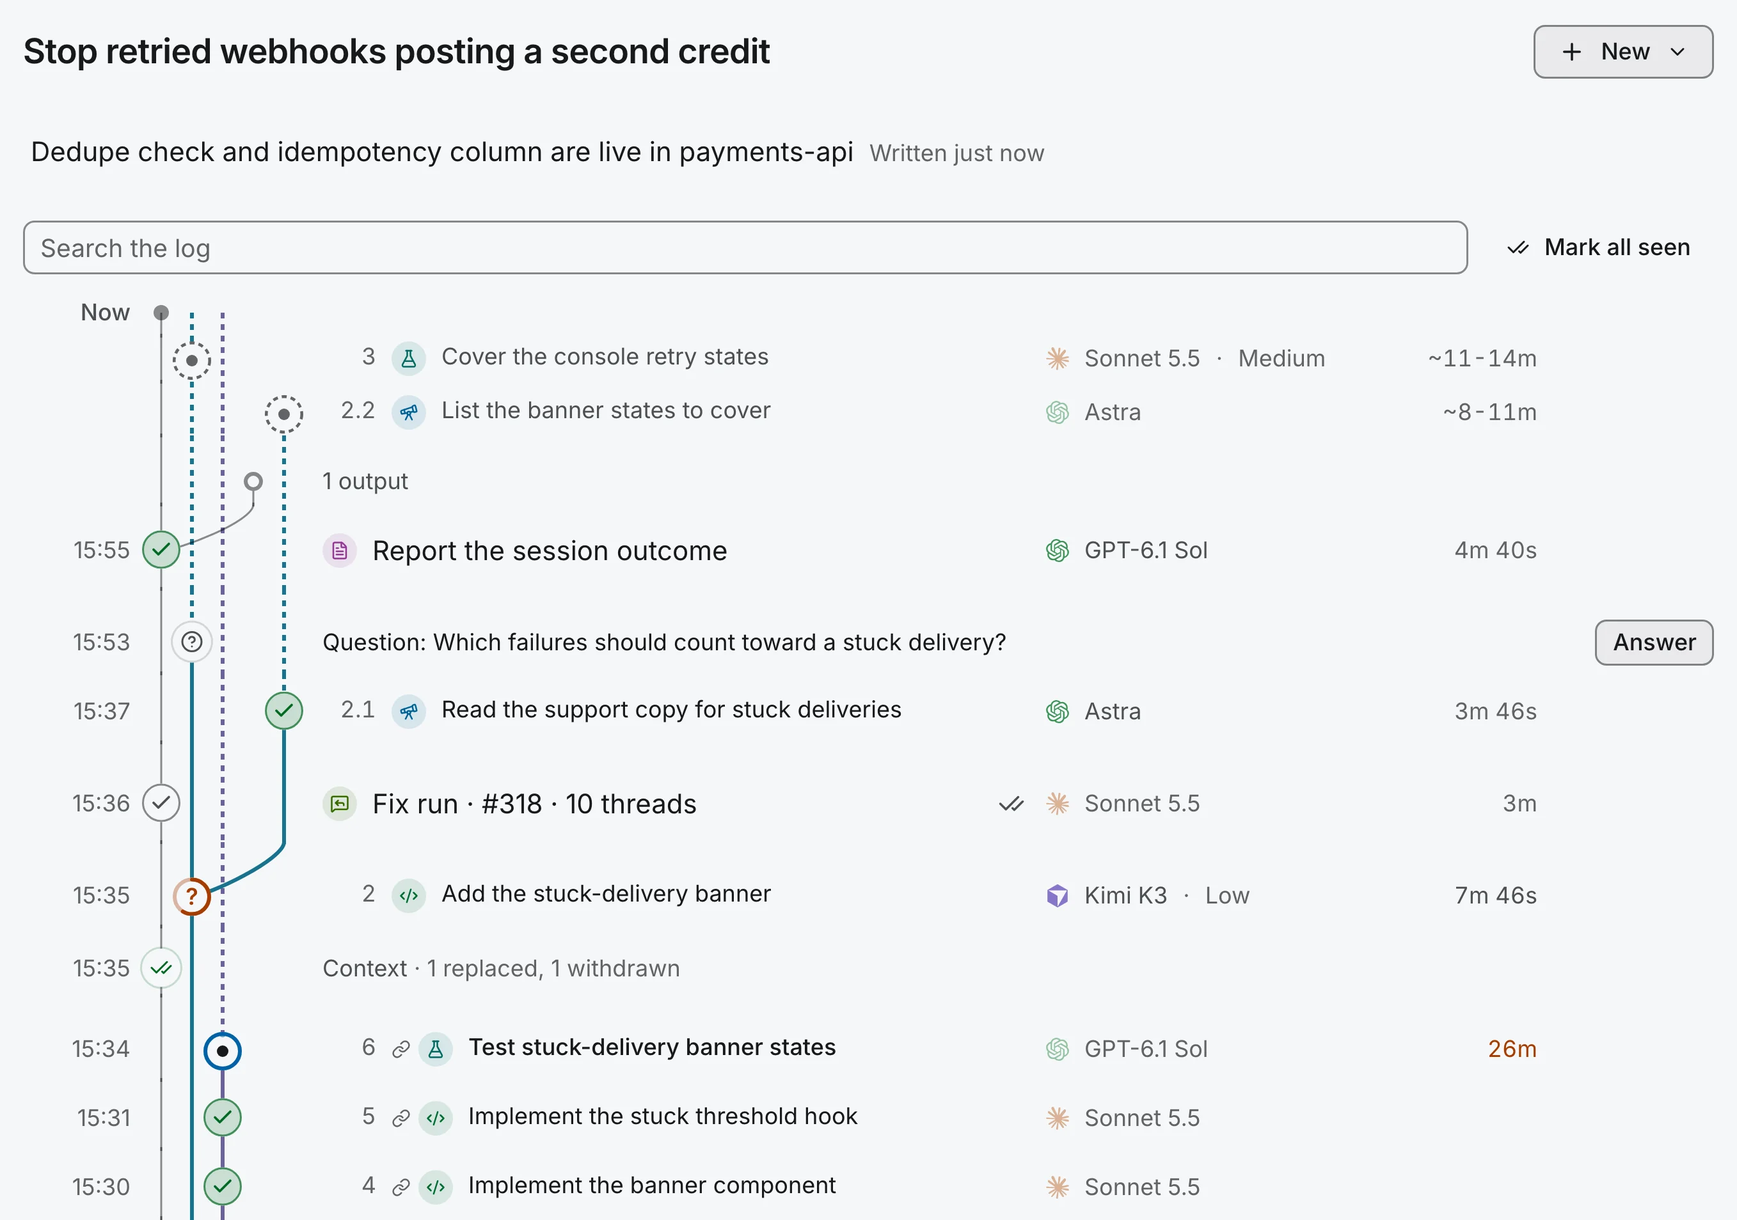
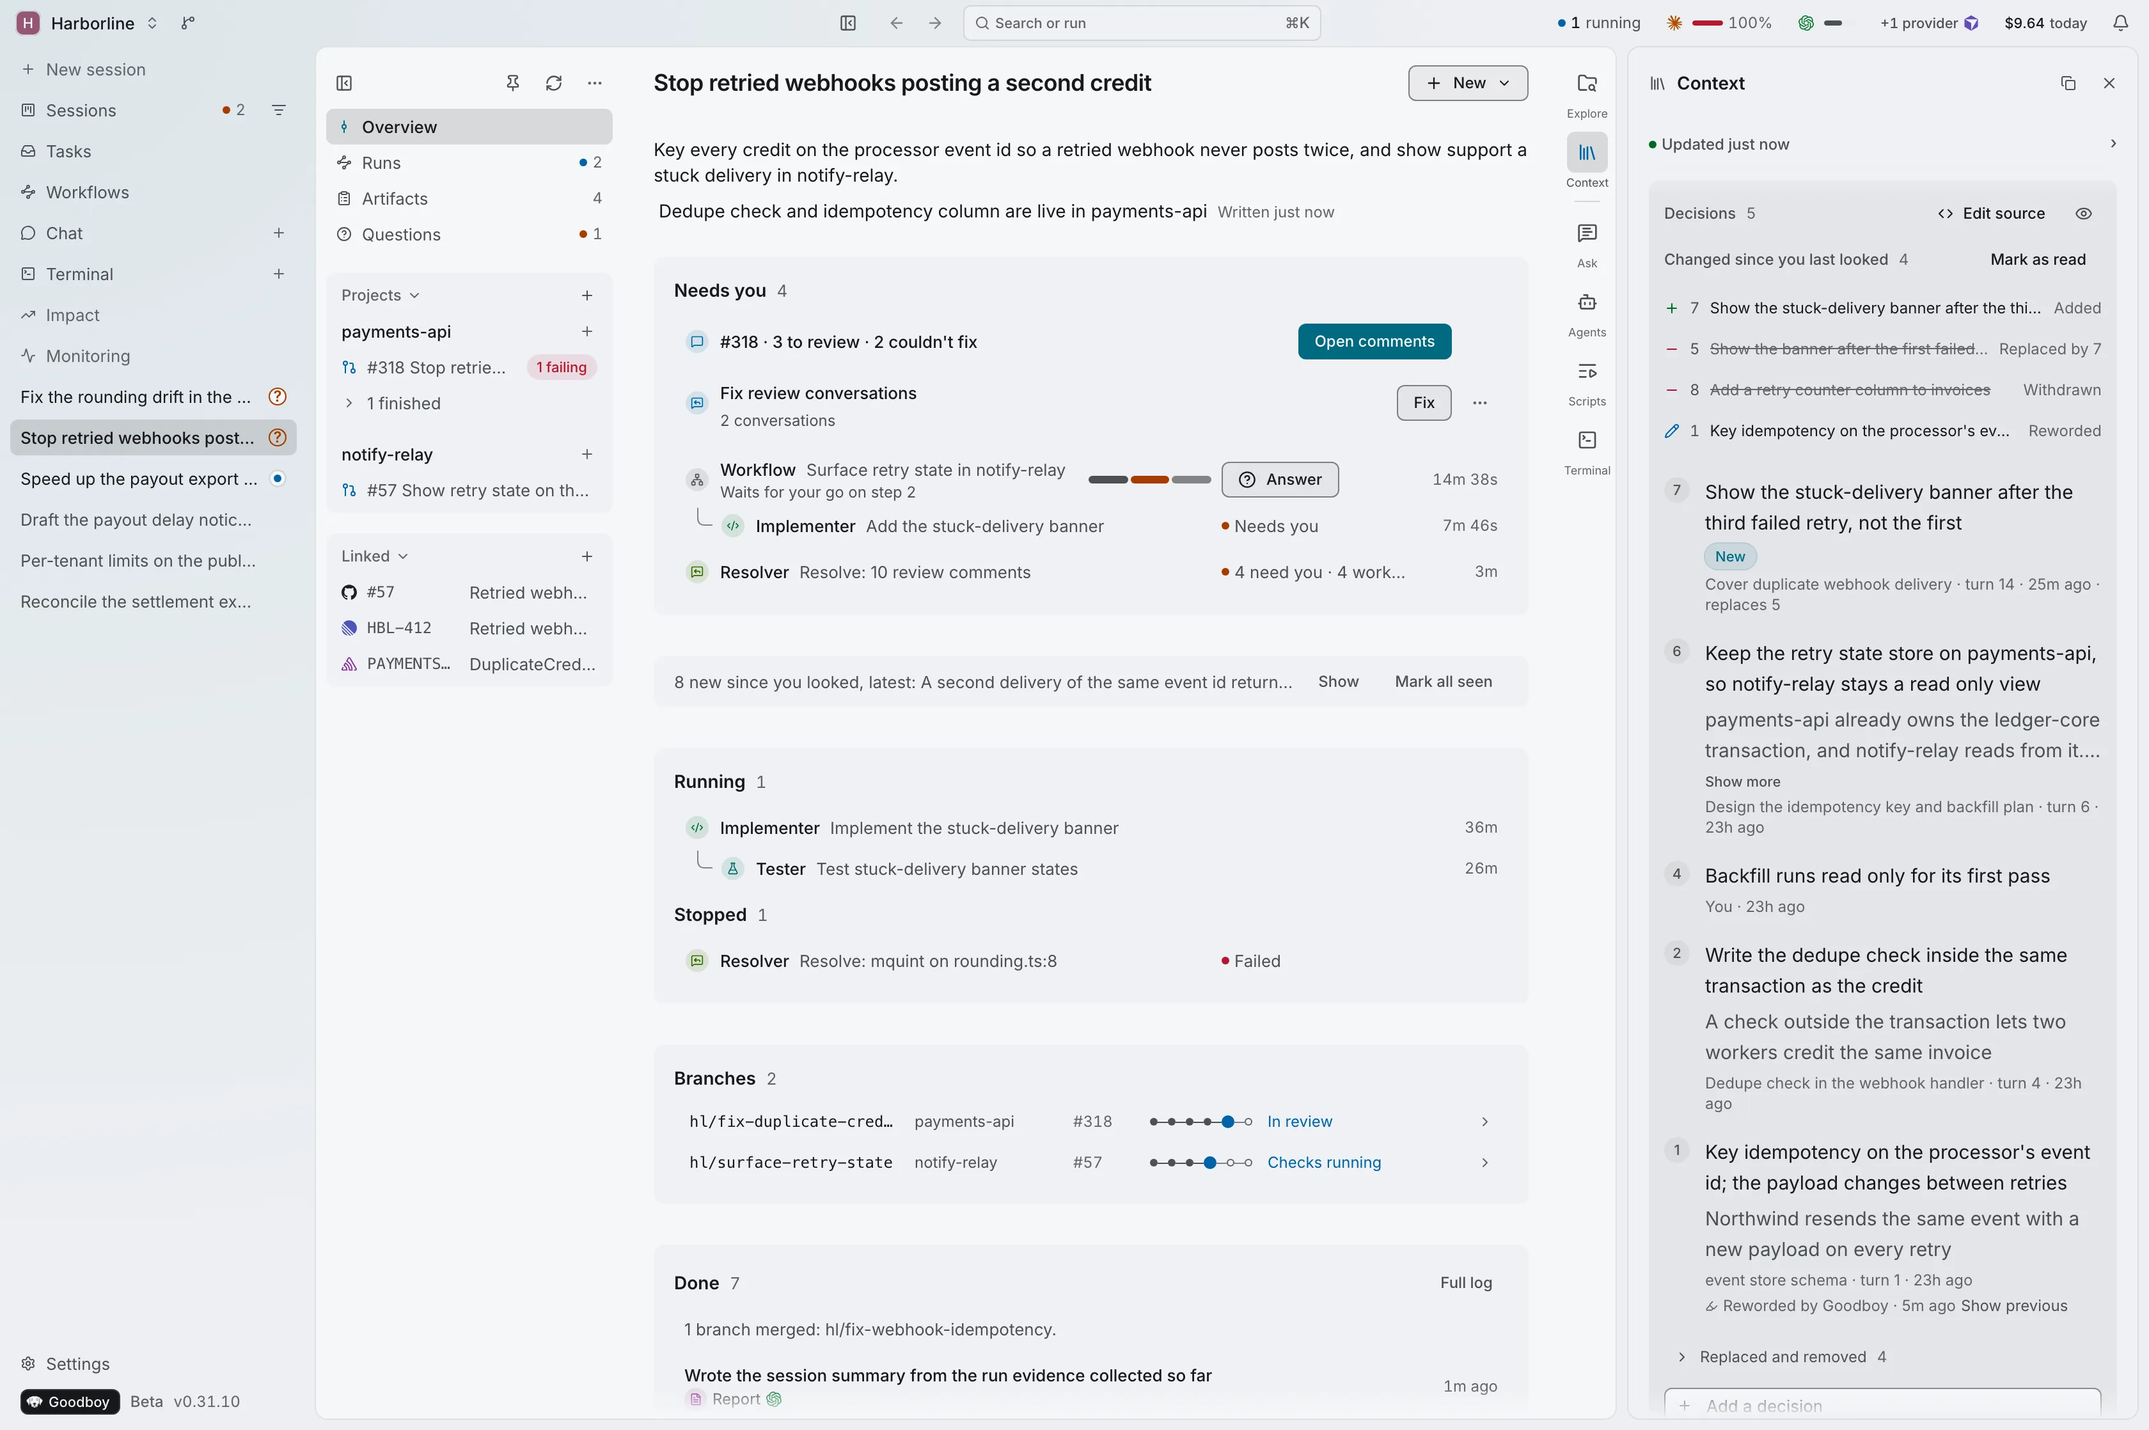
docs(repo): show the whole app in every readme picture
A tight crop leaves a README section empty when the text sits above the picture.
All six pictures are the whole app window again, the left rail and header included.
The hero is the full Overview of the session at 1680 wide, from the readme-hero scene.
The readme-hero-log scene is gone. The board shows all six lanes.
Shots take --frozen-at and --out-dir, so a pair shares one clock.
Alt text, image sizes, recipes and the screenshot guide follow the new pictures.

diff --git a/apps/desktop/src/app/components/MockScene/scenes/ActivityRunScene.tsx b/apps/desktop/src/app/components/MockScene/scenes/ActivityRunScene.tsx
@@ -2,12 +2,8 @@ import { useEffect, useState } from 'react';
 import type { IsoDateTime, ProviderRunId, Session, SessionId } from '@goodboy/types';
 import { useAppStore } from '../../../../store';
 import type { ContextDrawerTab } from '../../../../store/slices/drawer/state';
-import { PaneShell } from '@goodboy/ui';
 import { LogPane } from '../../../../features/session/central/log/LogPane';
 import { SessionOverviewPane } from '../../../../features/session/components/SessionOverviewPane';
-import { HeaderBand } from '../../../../features/session/components/SessionOverviewPane/HeaderBand';
-import { OverviewHeaderActions } from '../../../../features/session/components/SessionOverviewPane/OverviewHeaderActions';
-import { OverviewTitle } from '../../../../features/session/components/SessionOverviewPane/OverviewTitle';
 import { SessionWorkspace } from '../../../../features/session/components/SessionWorkspace';
 import {
   SESSION,
@@ -94,7 +90,6 @@ type Props = {
   readonly isContextRead?: boolean;
   readonly seedRuns?: () => void;
   readonly isLogShown?: boolean;
-  readonly isLogTitled?: boolean;
 };
 
 const IDLE_SESSION: Session = {
@@ -110,7 +105,6 @@ export const ActivityRunScene = ({
   isContextRead = false,
   seedRuns = seedActivityRunScene,
   isLogShown = false,
-  isLogTitled = false,
 }: Props) => {
   const [isReady, setIsReady] = useState(false);
 
@@ -168,16 +162,6 @@ export const ActivityRunScene = ({
           <div className="relative h-full w-full">
             <SessionWorkspace session={session} />
           </div>
-        ) : isLogShown && isLogTitled ? (
-          <PaneShell
-            page="overview"
-            title={<OverviewTitle session={session} />}
-            actions={<OverviewHeaderActions session={session} />}
-            headerRhythm="section"
-          >
-            <HeaderBand session={session} />
-            <LogPane session={session} />
-          </PaneShell>
         ) : isLogShown ? (
           <LogPane session={session} />
         ) : (

diff --git a/apps/desktop/src/app/components/MockScene/scenes/u25/readme-hero.test.tsx b/apps/desktop/src/app/components/MockScene/scenes/u25/readme-hero.test.tsx
@@ -77,24 +77,4 @@ describe('readme hero scene', () => {
     expect([...providers].sort()).toEqual(['anthropic', 'codex', 'cursor']);
     expect(agents.some((agent) => agent.modelOverride === 'claude-haiku-4-5')).toBe(false);
   });
-
-  it('registers the log scene and shows the Activity timeline on three providers', async () => {
-    expect(MOCK_SCENES['readme-hero-log']).toBeDefined();
-    const Scene = U25_README_HERO_SCENES['readme-hero-log'];
-    render(
-      <ToastProvider>
-        <Scene />
-      </ToastProvider>,
-    );
-    await act(async () => {
-      await vi.advanceTimersByTimeAsync(SETTLE_MS);
-    });
-    expect(screen.queryByText('Something went wrong')).toBeNull();
-    expect(screen.getByRole('searchbox')).toBeDefined();
-    expect(useAppStore.getState().drawer).toBeNull();
-
-    const agents = useAppStore.getState().sessionPhaseRuns[SESSION_ID] ?? [];
-    const providers = new Set(agents.map((agent) => agent.providerOverride));
-    expect([...providers].sort()).toEqual(['anthropic', 'codex', 'cursor']);
-  });
 });

diff --git a/apps/desktop/src/app/components/MockScene/scenes/u25/readme-hero.tsx b/apps/desktop/src/app/components/MockScene/scenes/u25/readme-hero.tsx
@@ -1,7 +1,5 @@
-import { ReadmeHeroLogScene } from './ReadmeHeroLogScene';
 import { ReadmeHeroScene } from './ReadmeHeroScene';
 
 export const U25_README_HERO_SCENES = {
   'readme-hero': ReadmeHeroScene,
-  'readme-hero-log': ReadmeHeroLogScene,
 };

diff --git a/README.md b/README.md
@@ -2,7 +2,7 @@
 
 <picture>
   <source media="(prefers-color-scheme: dark)" srcset="./docs/readme/readme-hero-dark.webp">
-  <img src="./docs/readme/readme-hero-light.webp" alt="The Activity timeline of a Harborline session, each row with its model: Sonnet 5.5, Astra, GPT-6.1 Sol, Composer 2.5 and Kimi K3" width="880">
+  <img src="./docs/readme/readme-hero-light.webp" alt="The Overview of a Harborline session: Needs you 4, Running, Branches and Done, with the sessions rail and the Context drawer open on Decisions 5">
 </picture>
 
 <sub>Screenshot from Goodboy 0.31.10</sub>
@@ -32,7 +32,7 @@ Every task is a session, and the board shows where each one stands. Six lanes, *
 
 <picture>
   <source media="(prefers-color-scheme: dark)" srcset="https://raw.githubusercontent.com/akhayam99/goodboy-media/main/features/board-stage-dark.webp">
-  <img src="https://raw.githubusercontent.com/akhayam99/goodboy-media/main/features/board-stage-light.webp" alt="The Harborline board in five lanes: Needs you holds four sessions, each with a question waiting">
+  <img src="https://raw.githubusercontent.com/akhayam99/goodboy-media/main/features/board-stage-light.webp" alt="The Harborline board in six lanes: Needs you holds four sessions, each with a question waiting">
 </picture>
 
 <sub>Screenshot from Goodboy 0.31.10</sub>
@@ -54,7 +54,7 @@ What one agent learns, the next one reads. The goal, decisions and a running sum
 
 <picture>
   <source media="(prefers-color-scheme: dark)" srcset="https://raw.githubusercontent.com/akhayam99/goodboy-media/main/features/context-drawer-dark.webp">
-  <img src="https://raw.githubusercontent.com/akhayam99/goodboy-media/main/features/context-drawer-light.webp" alt="The Context drawer on Decisions 5: four changes since you last looked, then decisions 7, 6 and 4" width="439">
+  <img src="https://raw.githubusercontent.com/akhayam99/goodboy-media/main/features/context-drawer-light.webp" alt="The Context drawer on Decisions 5: four changes since you last looked, then decisions 7, 6, 4 and 2, beside the session Overview">
 </picture>
 
 <sub>Screenshot from Goodboy 0.31.10</sub>
@@ -65,7 +65,7 @@ The **Branch** page holds one branch: its pull request, review comments, changed
 
 <picture>
   <source media="(prefers-color-scheme: dark)" srcset="https://raw.githubusercontent.com/akhayam99/goodboy-media/main/features/review-pr-page-dark.webp">
-  <img src="https://raw.githubusercontent.com/akhayam99/goodboy-media/main/features/review-pr-page-light.webp" alt="The Pull request tab of #318: Checks 1 failing, Changes requested, Merge Blocked by checks, reviewers and description" width="688">
+  <img src="https://raw.githubusercontent.com/akhayam99/goodboy-media/main/features/review-pr-page-light.webp" alt="The Pull request tab of #318: Checks 1 failing, Changes requested, Merge Blocked by checks, reviewers, description and activity">
 </picture>
 
 <sub>Screenshot from Goodboy 0.31.10</sub>
@@ -76,7 +76,7 @@ Ask about your repos without starting a session. **Chat** reads every project an
 
 <picture>
   <source media="(prefers-color-scheme: dark)" srcset="https://raw.githubusercontent.com/akhayam99/goodboy-media/main/features/agents-workspace-chat-dark.webp">
-  <img src="https://raw.githubusercontent.com/akhayam99/goodboy-media/main/features/agents-workspace-chat-light.webp" alt="Chat in Harborline: the chat list and a table of three payments-api files, Read 3 files, then a follow-up answer">
+  <img src="https://raw.githubusercontent.com/akhayam99/goodboy-media/main/features/agents-workspace-chat-light.webp" alt="Chat in Harborline: the chat list and a table of three source files, Read 3 files, then a follow-up answer">
 </picture>
 
 <sub>Screenshot from Goodboy 0.31.10</sub>

diff --git a/docs/mock-screenshots.md b/docs/mock-screenshots.md
@@ -701,15 +701,14 @@ feature-area guide ones in the public
 and light `.webp` pairs. The website's hero picture is the one capture on the
 site; every other product view there is a React mock. `pnpm readme:hero` shoots
 two scenes from the desktop mock dev server (`http://localhost:5230`, or the URL
-passed as its first argument), at scale 4, in both themes. The `readme-hero-log`
-scene (the session title and state line above the Activity timeline of the
-Harborline session, with the model of every row, Sonnet 5.5, Astra, GPT-6.1 Sol,
-Composer 2.5 or Kimi K3) is shot in a 1460x900 window and clipped to the header and
-twelve rows, 905x636 css px, so the text stays at 12 px or more at the 880 px
-GitHub draws it at; both themes come from one frozen clock so their times match; it writes
-`docs/readme/readme-hero-{dark,light}.webp`. The `readme-hero` scene (the
-session on its Overview with the Projects card unfolded and the shared Context
-drawer open) is shot at 1920x1200 and writes
+passed as its first argument), in both themes. The `readme-hero` scene (the
+Harborline session on its Overview with the Projects card unfolded and the shared
+Context drawer open) is shot twice from the same scene. The README picture is the
+whole app window, 1680x1118 css px at scale 2, so the left rail, the header and
+the drawer all show and the columns keep their widths (a 1440 wide window folds
+the session pages column); both themes come from one frozen clock so their times
+match, and it writes `docs/readme/readme-hero-{dark,light}.webp`. The site picture
+is shot at 1920x1200 and scale 4 and writes
 `website/public/hero/hero-{dark,light}-{1208,2416,3624}.webp`, 1, 2 and 3 times
 the width the site draws it at, cropped to the top 840 px of the window and
 resampled once from the same capture. To crop a short surface, use a `--window-size` height shorter than 900. The layout keeps its own proportions and the footer stays pinned.
@@ -751,6 +750,8 @@ pnpm features:shots --scene 'board-shell&brand=1' --out board-stage --selector '
 - `--click "Commits,Sort"` clicks, in order, the buttons, tabs or links whose text starts with each name, after the scene loads and before the capture. It shoots a state a scene does not open by itself, such as a second tab or an open picker. A name that matches nothing stops the run.
 - `--hover "<css selector>"` moves the pointer to the center of the first match, after the clicks and before the capture. It shoots a tooltip or a hover card the scene does not open by itself, such as the limits card of a provider chip in the top bar (`--hover '[aria-label^="Claude limits"]'`).
 - `--scroll "<css selector>"` scrolls the first match to the top of the window, after the clicks and before the capture. It shoots a pane the scene stacks below the first screen, such as the studio home under the workflow builder (`--scroll '[data-studio-overlay]'`).
+- `--frozen-at 2026-11-05T16:00:00` fixes the page clock, so the dark and the light shot of one figure show the same times.
+- `--out-dir <folder>` writes the two files straight into `<folder>` and records nothing in `docs/figures.json`. Use it for a trial shot.
 - `--version x.y.z` names the version the manifest records for the figure. Without it the shot takes the version of `apps/desktop/package.json` of the checkout that runs the script.
 
 Each feature-area guide points at each file with its raw URL,

diff --git a/docs/features/review.md b/docs/features/review.md
@@ -105,7 +105,7 @@ A branch with no pull request gets its own page: the branch name, whether it is 
 
 <picture>
   <source media="(prefers-color-scheme: dark)" srcset="https://raw.githubusercontent.com/akhayam99/goodboy-media/main/features/review-pr-page-dark.webp">
-  <img src="https://raw.githubusercontent.com/akhayam99/goodboy-media/main/features/review-pr-page-light.webp" alt="The Pull request tab of the Branch page for hl/fix-duplicate-credit, between the tabs Pull request, Comments, Files 6, Commits 5 and Checks 1, with the state Open #318 into main and the Fix checks button, the cards Checks 1 failing, Review Changes requested, Merge Blocked by checks and Branch 3 behind main, the reviewers, the author, the linked issue and the description with its Edit button" width="688">
+  <img src="https://raw.githubusercontent.com/akhayam99/goodboy-media/main/features/review-pr-page-light.webp" alt="The Pull request tab of the Branch page for hl/fix-duplicate-credit, between the tabs Pull request, Comments, Files 6, Commits 5 and Checks 1, with the state Open #318 into main and the Fix checks button, the cards Checks 1 failing, Review Changes requested, Merge Blocked by checks and Branch 3 behind main, the reviewers, the author, the linked issue, the description with its Edit button and the activity down to Checks 1 failing and 9 comments on files">
 </picture>
 
 <sub>Screenshot from Goodboy 0.31.10</sub>

diff --git a/docs/features/agents.md b/docs/features/agents.md
@@ -8,7 +8,7 @@ Ask about the workspace without starting a session. **Chat**, in the sidebar aft
 
 <picture>
   <source media="(prefers-color-scheme: dark)" srcset="https://raw.githubusercontent.com/akhayam99/goodboy-media/main/features/agents-workspace-chat-dark.webp">
-  <img src="https://raw.githubusercontent.com/akhayam99/goodboy-media/main/features/agents-workspace-chat-light.webp" alt="Chat in Harborline: the chat list grouped by Pinned, Today, This week and Idle with Archive idle and Archived 4, and the chat Duplicate credit path: a table of three payments-api files with Read 3 files and Sonnet 5.5 Medium, then the question Where should the check go? answered on GPT-6.1 Sol High, above a message box that reads Read only. Nothing is changed.">
+  <img src="https://raw.githubusercontent.com/akhayam99/goodboy-media/main/features/agents-workspace-chat-light.webp" alt="Chat in Harborline, with the sessions rail on the left: the chat list grouped by Pinned, Today, This week and Idle with Archive idle and Archived 4, and the chat Duplicate credit path: a table of three source files with Read 3 files and Sonnet 5.5 Medium, then the question Where should the check go? answered on GPT-6.1 Sol High, above a message box that reads Read only. Nothing is changed.">
 </picture>
 
 <sub>Screenshot from Goodboy 0.31.10</sub>

diff --git a/docs/features/workflows.md b/docs/features/workflows.md
@@ -77,7 +77,7 @@ While the session's workflows load, the run page draws its goal, its facts and t
 
 <picture>
   <source media="(prefers-color-scheme: dark)" srcset="https://raw.githubusercontent.com/akhayam99/goodboy-media/main/features/workflow-run-dark.webp">
-  <img src="https://raw.githubusercontent.com/akhayam99/goodboy-media/main/features/workflow-run-light.webp" alt="The run Duplicate credit fix on GPT-6.1 Sol, pinned at High, writing to payments-api on hl/fix-duplicate-credit, with Steps 5 all done: three scouts under step 1, a planner, two implementers and a tester, the two hints read at step 1 and step 2, the orchestrator summary and the Create report and Create wireframe buttons">
+  <img src="https://raw.githubusercontent.com/akhayam99/goodboy-media/main/features/workflow-run-light.webp" alt="The Runs page of the session in the app, with the run Duplicate credit fix on GPT-6.1 Sol, pinned at High, writing to payments-api on hl/fix-duplicate-credit, with Steps 5 all done: three scouts under step 1, a planner, two implementers and a tester, the two hints read at step 1 and step 2, the orchestrator summary and the Create report and Create wireframe buttons">
 </picture>
 
 <sub>Screenshot from Goodboy 0.31.10</sub>

diff --git a/docs/features/context.md b/docs/features/context.md
@@ -34,7 +34,7 @@ Open goal, decisions, summary and explanations from any session page with the **
 
 <picture>
   <source media="(prefers-color-scheme: dark)" srcset="https://raw.githubusercontent.com/akhayam99/goodboy-media/main/features/context-drawer-dark.webp">
-  <img src="https://raw.githubusercontent.com/akhayam99/goodboy-media/main/features/context-drawer-light.webp" alt="The Context drawer of the session Stop retried webhooks posting a second credit on Decisions 5, with Changed since you last looked (4 rows: Added, Replaced by 7, Withdrawn, Reworded) and Mark as read above the active decisions 7, 6 and 4" width="439">
+  <img src="https://raw.githubusercontent.com/akhayam99/goodboy-media/main/features/context-drawer-light.webp" alt="The session Stop retried webhooks posting a second credit on its Overview, with Needs you 1, Branches 2 and Done 4, and the Context drawer open on Decisions 5, with Changed since you last looked (4 rows: Added, Replaced by 7, Withdrawn, Reworded) and Mark as read above the active decisions 7, 6, 4 and 2">
 </picture>
 
 <sub>Screenshot from Goodboy 0.31.10</sub>

diff --git a/docs/features/board.md b/docs/features/board.md
@@ -8,7 +8,7 @@ See where each task stands without moving cards around. Six lanes, **building**,
 
 <picture>
   <source media="(prefers-color-scheme: dark)" srcset="https://raw.githubusercontent.com/akhayam99/goodboy-media/main/features/board-stage-dark.webp">
-  <img src="https://raw.githubusercontent.com/akhayam99/goodboy-media/main/features/board-stage-light.webp" alt="The Harborline board with its sessions in five lanes: Building 4, Running 2, Needs you 4 with a question waiting on each card, In review 2 with #318 and #90, and Done 4">
+  <img src="https://raw.githubusercontent.com/akhayam99/goodboy-media/main/features/board-stage-light.webp" alt="The Harborline board with its sessions in six lanes: Building 3, Running 2, Needs you 4 with a question waiting on each card, In review 2 with #318 and #90, Done 2 with #198 and #205, and Archived 2">
 </picture>
 
 <sub>Screenshot from Goodboy 0.31.10</sub>

diff --git a/docs/first-session.md b/docs/first-session.md
@@ -23,7 +23,7 @@ The Sessions page shows every session in lanes: **Building**, **Running**, **Nee
 
 <picture>
   <source media="(prefers-color-scheme: dark)" srcset="https://raw.githubusercontent.com/akhayam99/goodboy-media/main/features/board-stage-dark.webp">
-  <img src="https://raw.githubusercontent.com/akhayam99/goodboy-media/main/features/board-stage-light.webp" alt="The Harborline board in five lanes: Needs you holds four sessions, each with a question waiting">
+  <img src="https://raw.githubusercontent.com/akhayam99/goodboy-media/main/features/board-stage-light.webp" alt="The Harborline board in six lanes: Needs you holds four sessions, each with a question waiting">
 </picture>
 
 <sub>Screenshot from Goodboy 0.31.10</sub>
